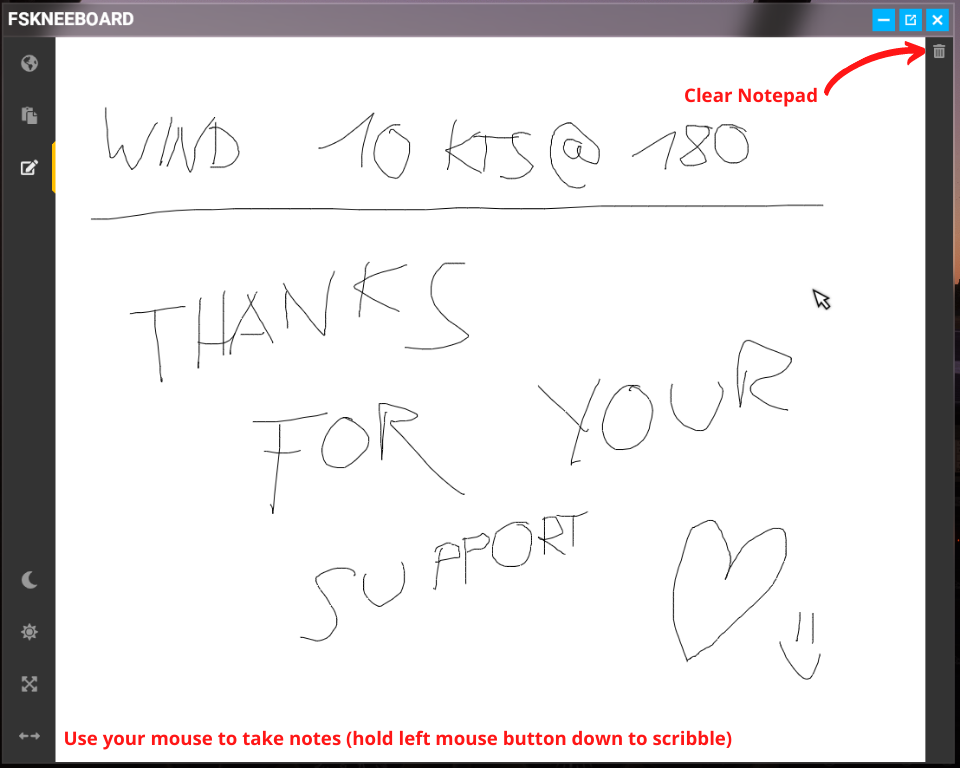
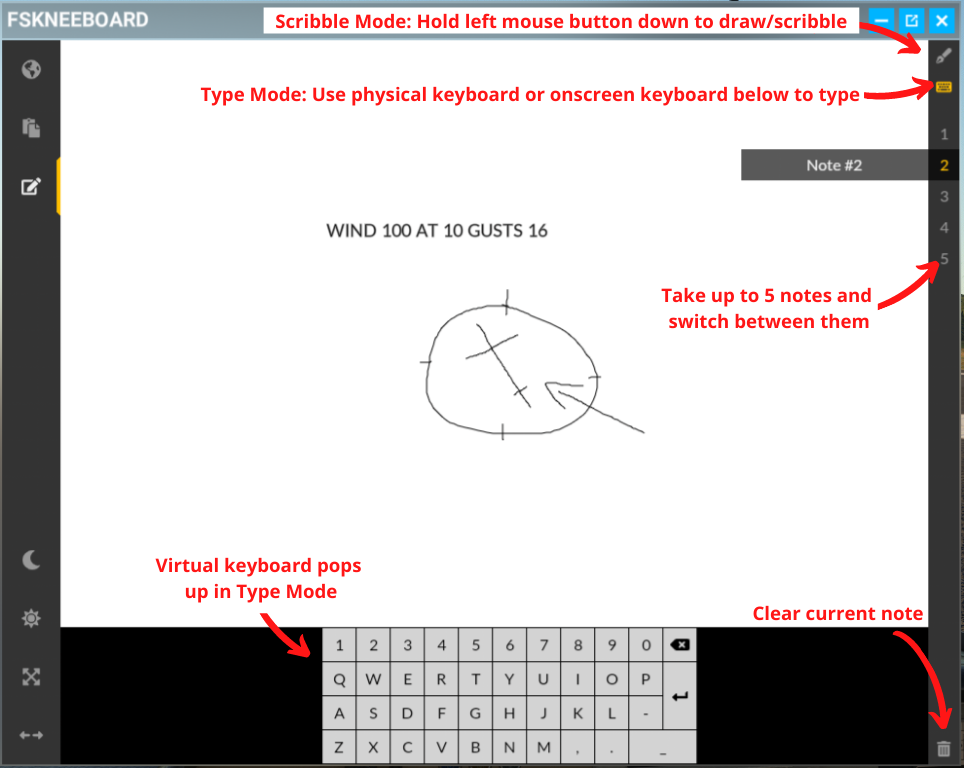
updated readme

diff --git a/README.md b/README.md
@@ -386,11 +386,37 @@ Your charts folder should look like this:
 
 ## Notepad
 
-Notepad is another feature that FSKneeboard PRO users have access to. It allows you to take notes during your flight session by simply drawing on it with your mouse.
+Notepad is another feature that FSKneeboard PRO users have access to. It allows you to take notes during your flight session by simply drawing on it with your mouse or typing with your physical or a virtual onscreen keyboard.
 
 ![Notepad](screenshots/fskneeboard-notepad-legend.png)
 
 *Notepad*
+
+The notepad can be used in one of two modes: Scribble Mode and Type Mode. The two modes can be used on the same note and you can switch back and forth between them any time.
+
+## Scribble Mode
+
+In Scribble Mode you use your mouse to, well, scribble something on the notepad. Just click the left mouse button, hold it down and drag your mouse to draw a line and handwrite notes.
+
+## Type Mode
+
+In Type Mode you can either the virtual onscreen keyboard or your physical keyboard (which is still **experimental**, see remarks below for details) to type information. Here's how: 
+
+- Activate the mode by clicking the appropriate keyboard icon
+- Now, click to place the cursor where you want the note to appear (default is the top left corner of the notepad)
+- Start typing with your keyboard or the virtual onscreen keyboard
+
+> REMARKS:
+> Please note that FSKneeboard DOES NOT intercept Flight Simulator hotkeys when you use your physical keyboard to take notes.
+> When you type the letter `G` for example, chances are that your landing gear lever will be toggled! Be aware of that and opt for the virtual keyboard if issues arise.
+
+## Taking Multiple Notes
+
+You can take up to 5 notes at a time and switch between them using the index buttons in the menu bar. The notes will be saved even across multiple flights, until you delete them manually!
+
+## Taking Notes With Tablet Computers
+
+You can also connect a tablet computer to FSKneeboard (see [Connecting to FSKneeboard With Your Browser, a Second PC or Tablet]() below) and take notes with your fingers. Notes will be instantly synced across devices, allowing you to take notes with your actual, physical tablet right on your knee and have them transferred over into your VR cockpit!
 
 ## Autosave
 
@@ -441,6 +467,20 @@ If you like, you can use your HOTAS configuration software to map this hotkey/sh
 
 # Advanced Usage
 
+## Connecting to FSKneeboard With Your Browser, a Second PC or Tablet
+
+You can also connect to FSKneeboard with your browser outside of MSFS or even a second device. When starting FSKneeboard (and after connecting to MSFS) you will receive some information like this in the application window:
+
+```
+=== INFO: Connecting Your Tablet
+Besides using the FSKneeboard ingame panel from within Flight Simulator you can also connect to FSKneeboard with your tablet or web browser. To do so please enter follwing IP address and port into the address bar.
+FSKneeboard Server-Address: 192.168.178.5:3000
+```
+
+Simply take that IP-address and port information and type it into the address bar of your browser on your local machine, your laptop or tablet (which has to be on the same WIFI, obviously).
+
+## Command Line Arguments
+
 The FSKneeboard server can be started with several commandline arguments to further customize its behaviour. In general, all you need to do is add them behind your "fskneeboard.exe" shortcut.
 
 - `--autosave [number]`: Automatically create snapshots/savegames of your flights every `[number]` minutes.
@@ -487,6 +527,11 @@ The FSKneeboard server can be started with several commandline arguments to furt
 ## "I've placed my pdf-charts in the charts directory but I can't see them inside the sim!"
 
 > Due to the limited capabilities of the browser engine that is embedded in Flight Simulator, the charts viewer can only display charts in png format. You will have to convert your charts. There is a multitude of pdf-to-png converters available online for free. Alternatively, you may want to take a look at GIMP, which is a freeware that also enables you to convert pdf files to png locally. If you know about other options, please reach out and let me know so that I can add them to this readme file.
+
+## "I can't get it to work! What can I do?"
+
+> You can always reach out to me via Discord, which is the fastest way to get in touch. Please visit https://discord.fskneeboard.com to get support.
+> Also, you can run `fskneeboard.exe --log debug` to make FSKneeboard write a detailed log which will help me to analyze what might be going wrong on your end. Please do not share this log publicly, as it may contain your email address!
 
 ---
 

diff --git a/fskneeboard-server/README.md b/fskneeboard-server/README.md
@@ -1,10 +1,8 @@
-# msfs2020-go
+# FSKneeboard Server
 
-simconnect package [msfs2020-go/simconnect](simconnect/) connects to microsoft flight simulator 2020 using golang.
+The simconnect package [fskneeboard-server/simconnect](simconnect/) connects to MSFS 2020 using Go.
 
-cross-compiles from macos/linux, no other dependencies required. produces a single binary with no other files or configuration required.
-
-## how to build
+## How to Build
 
 - install sass compiler via npm
 - install go version 1.14.14
@@ -13,22 +11,6 @@ cross-compiles from macos/linux, no other dependencies required. produces a sing
 - install https://github.com/boltdb/bolt globally (go get github.com/boltdb/bolt/...)
 - copy required stuff to folder _vendor (see README.md there)
 - run build-fskneeboard-server-FREE.bat or build-fskneeboard-server-PRO.bat
-
-## status
-
-[msfs2020-go/simconnect](simconnect/) package currently only implements enough of the simconnect api for [examples](examples/) and [vfrmap](vfrmap).
-
-## releases and download
-
-program zips releases are uploaded [here](https://github.com/lian/msfs2020-go/releases)
-
-## tools
-
-* [vfrmap](vfrmap/) local web-server that will allow you to view your location, and some information about your trajectory including airspeed and altitude.
-
-## examples
-
-* [examples/request_data](examples/request_data/) port of `MSFS-SDK/Samples/SimConnectSamples/RequestData/RequestData.cpp`
 
 ## Why does my virus-scanning software think this program is infected?
 
